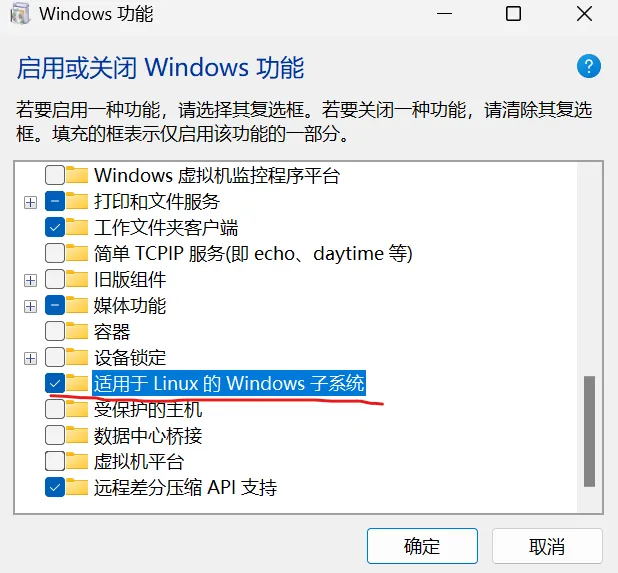
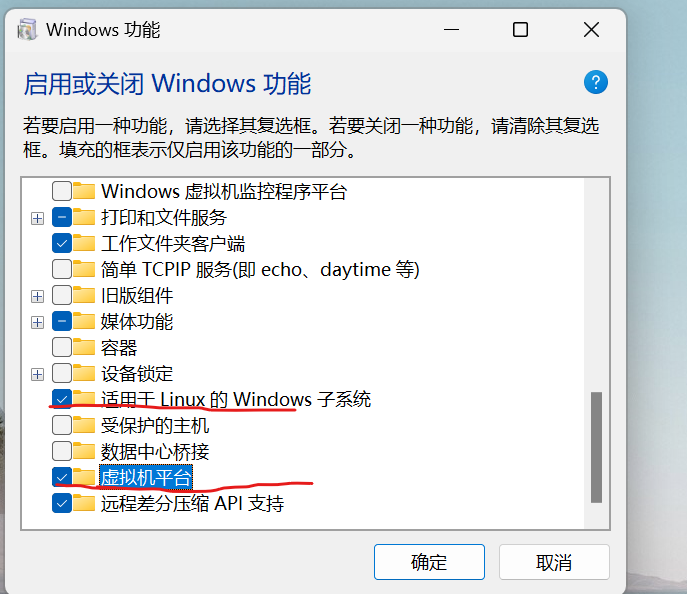
1

diff --git a/doc/240526.md b/doc/240526.md
@@ -37,7 +37,11 @@ service docker restart
 
 <a name="XKB7Y"></a>
 ### Windows 安装docker
-任务栏搜索功能，启用"适用于Linux的Windows子系统"<br />![](/doc/images/240526/1.png)
+任务栏搜索功能，勾选
+"适用于Linux的Windows子系统" 
+"虚拟机平台"
+
+<br />![](/doc/images/240526/1.png)
 
 下载Windows版本安装包<br />[https://www.docker.com/products/docker-desktop/](https://www.docker.com/products/docker-desktop/)!![](/doc/images/240526/2.png)<br />安装，这里使用命令行把docker desktop 安装到D盘
 ```shell
